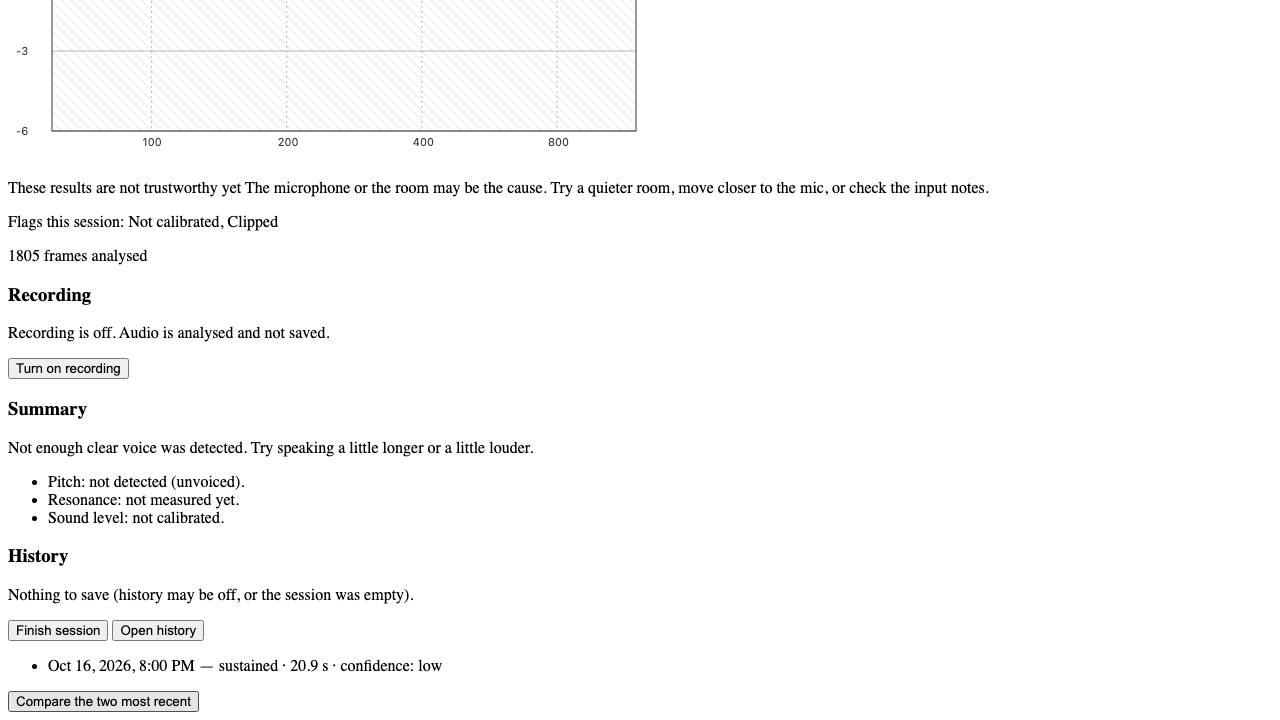
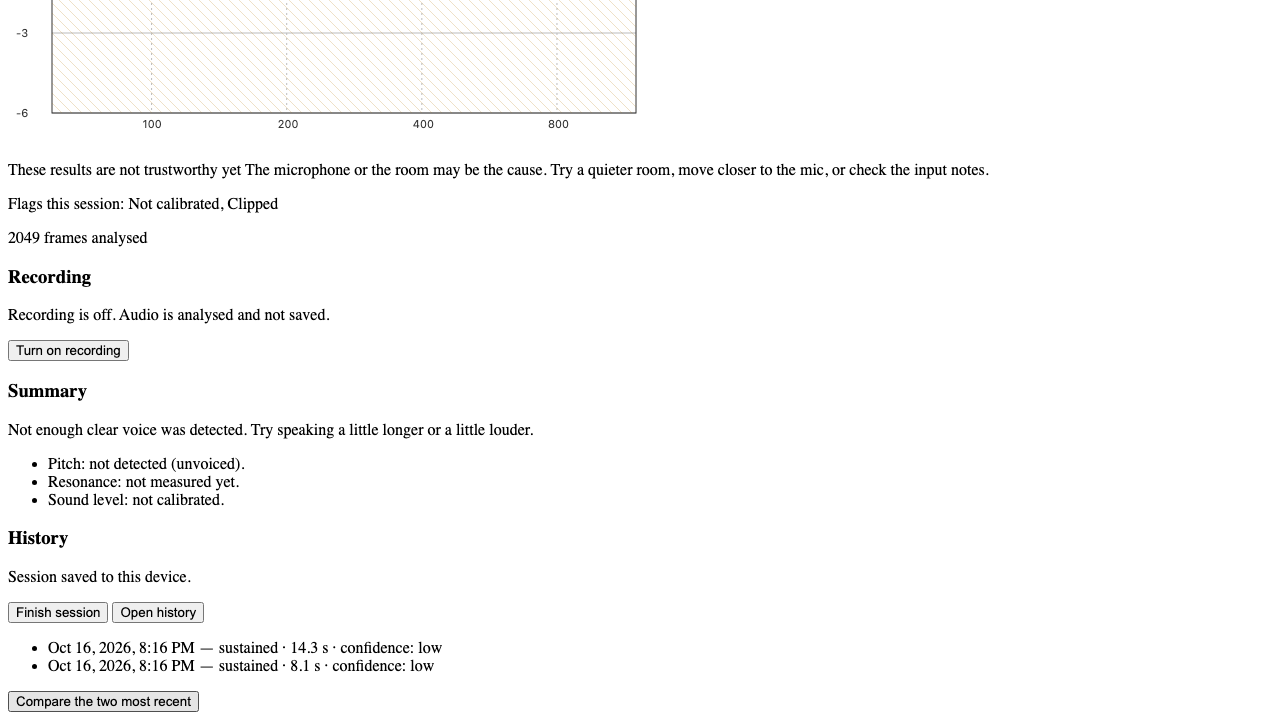
fix(web): keep the capture worklet unconnected to the destination; verify history and A/B

Changed region(s): [[0.0, 0.0, 0.7812, 0.9472]]

diff --git a/apps/web/src/capture-shim.js b/apps/web/src/capture-shim.js
@@ -47,13 +47,8 @@ export async function startCapture(
     }
   };
 
-  // Analysis only: route through a muted gain node so the audio graph pulls the
-  // worklet (a node not connected onward is never processed) without playing it.
-  const mute = context.createGain();
-  mute.gain.value = 0;
+  // Analysis only: do NOT connect the node to the destination (no playback).
   source.connect(node);
-  node.connect(mute);
-  mute.connect(context.destination);
 
   return {
     sampleRate: context.sampleRate,

diff --git a/docs/verification/live-pad.md b/docs/verification/live-pad.md
@@ -17,12 +17,13 @@ This closes the standing "no browser verification" gap for M4.
 | Permission denied (S4.1) | `role="alert"` guidance with a **Try again** button (not a dead end) | `denied.png` |
 | Live practice (S4.2–S4.4) | Frames flow end-to-end (**2781 frames analysed**), pad draws with axis ticks, confidence overlay + label, summary lines, and the flags list | `practice.png` |
 | Opt-in recording (S5.2) | Off by default; turning it on writes a valid WAV to OPFS (`session-*.wav`, 1.79 MB, `RIFF`/`WAVE` magic); stopping finalizes it | `recording.png` |
+| History + A/B (S5.3) | Two sessions listed newest-first with `Intl` dates, kind, duration (14.3 s / 8.1 s) and confidence; comparison labelled `Earlier`/`Now` with the no-audio and low-confidence caveats and the "comparing against other people is off" note | `history-compare.png` |
 
 The end-to-end chain works: capture in the worklet, analysis on the worker, frames returned
 as a `Float32Array`, decoded at the ABI offsets, and rendered. The CSP did **not** block the
 wasm fetch.
 
-## Bug found and fixed
+## Bugs found and fixed
 
 The low-confidence overlay drew a dense hatch over the **entire** plot and **overflowed the
 plot rectangle** (diagonal lines continued past the axes and off the plot), burying the live
@@ -32,6 +33,14 @@ trace. Fixed in `apps/web/src/pad/pad-view.js`:
 - it is much subtler (alpha 0.22, wider spacing), so the trace stays readable.
 
 The `practice.png` capture is after the fix.
+
+**`t_ms` decoded as a float (S5.3).** `t_ms` is a `u32` in the struct; reading it as an `f32`
+word yielded its bit pattern (a denormal, ≈1e-42), so every stored timestamp was 0 and session
+durations read "0.0 s". Fixed in `apps/web/src/frames.js`: reinterpret word 0 as a `u32`.
+
+**Worklet never processed (S5.3).** Routing the capture graph through a muted gain node to
+`context.destination` stopped the AudioWorklet from being pulled, so no frames reached the UI.
+Reverted to `source.connect(node)` with no onward connection — Chrome runs the worklet anyway.
 
 ## Limitations
 
